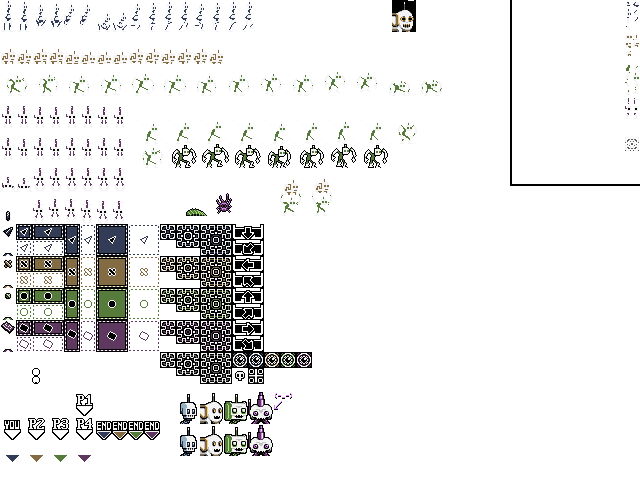
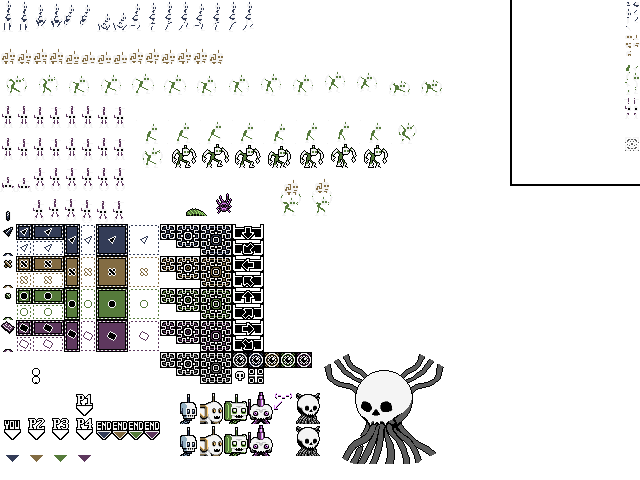
added art for 'overseer' character

diff --git a/src/game/spriteref.py b/src/game/spriteref.py
@@ -336,6 +336,7 @@ class _ObjectSheet(spritesheets.SpriteSheet):
         self.speaker_portraits[const.PLAYER_HEAVY] = [_img(176 + 24 * 2, 392 + i * 32, 24, 32, offs=start_pos) for i in range(0, 2)]
         player_d_portrait_width = 25  # needed another pixel, sue me~
         self.speaker_portraits[const.PLAYER_FLYING] = [_img(176 + 24 * 3, 392 + i * 32, player_d_portrait_width, 32, offs=start_pos) for i in range(0, 2)]
+        self.speaker_portraits["overseer"] = [_img(296, 392 + i * 32, 24, 32, offs=start_pos) for i in range(0, 2)]
 
         temp = self._handle_rotated_player_pieces([624, 128, 8, 8], 2, 8, atlas, start_pos)
         self.thin_block_broken_pieces_horz = temp[0]
@@ -635,13 +636,13 @@ class _DecorationSheet(spritesheets.SpriteSheet):
     def __init__(self):
         spritesheets.SpriteSheet.__init__(self, "decorations", "assets/decorations.png")
 
-        self.sprites = {}  # (w, h) -> list of ImageModels
+        self.sprites = {}  # (w, h) -> list of ImageModels, bool: can_recolor
 
     def draw_to_atlas(self, atlas, sheet, start_pos=(0, 0)):
         super().draw_to_atlas(atlas, sheet, start_pos=start_pos)
 
-        def _make_blocks(xy, dims, n=1, offs=(0, 0)):
-            return [_img(xy[0] + i * dims[0], xy[1], dims[0], dims[1], offs=offs) for i in range(0, n)]
+        def _make_blocks(xy, dims, n=1, offs=(0, 0), can_recolor=True):
+            return [_img(xy[0] + i * dims[0], xy[1], dims[0], dims[1], offs=offs) for i in range(0, n)], can_recolor
 
         self.sprites.clear()
         self.sprites[(16, 16)] = _make_blocks((0, 0), (16, 16), n=2, offs=start_pos)
@@ -650,12 +651,15 @@ class _DecorationSheet(spritesheets.SpriteSheet):
         self.sprites[(8, 8)] = _make_blocks((0, 32), (8, 8), n=3, offs=start_pos)
         self.sprites[(32, 32)] = _make_blocks((0, 40), (32, 32), n=2, offs=start_pos)
         self.sprites[(32, 16)] = _make_blocks((0, 72), (32, 16), n=3, offs=start_pos)
+        self.sprites[(128, 112)] = _make_blocks((0, 128), (128, 112), n=1, offs=start_pos, can_recolor=False)
 
     def get_sprite(self, size, idx):
+        """ returns: ImageModel, can_recolor """
         if size in self.sprites:
-            return self.sprites[size][idx % len(self.sprites[size])]
+            imgs, can_recolor = self.sprites[size]
+            return imgs[idx % len(self.sprites[size])], can_recolor
         else:
-            return None
+            return None, True
 
 
 class _UiSheet(spritesheets.SpriteSheet):

diff --git a/src/game/entities.py b/src/game/entities.py
@@ -3314,14 +3314,15 @@ class DecorationEntity(Entity):
     def update_sprites(self):
         if self._sprite is None:
             self._sprite = sprites.ImageSprite.new_sprite(spriteref.BLOCK_LAYER, depth=0)
-        model = spriteref.decoration_sheet().get_sprite(self.get_size(), self.art_id)
+        model, can_recolor = spriteref.decoration_sheet().get_sprite(self.get_size(), self.art_id)
         if model is None:
             model = spritesheets.get_white_square_img(opacity=0.75)
             self._sprite = self._sprite.update(new_model=model, new_x=self.get_x(), new_y=self.get_y(),
                                                new_raw_size=self.get_size(), new_color=self.get_color())
         else:
             self._sprite = self._sprite.update(new_model=model, new_x=self.get_x(), new_y=self.get_y(),
-                                               new_color=self.get_color(), new_xflip=self.xflip)
+                                               new_color=self.get_color() if can_recolor else colors.PERFECT_WHITE,
+                                               new_xflip=self.xflip)
 
     def all_sprites(self):
         yield self._sprite

diff --git a/src/game/dialog.py b/src/game/dialog.py
@@ -48,6 +48,7 @@ class Speaker:
     B = SpeakerType(const.PLAYER_SMALL, color=colors.TAN, sound=playertypes.PlayerTypes.SMALL.translate_sound(soundref.PLAYER_DIALOG))
     C = SpeakerType(const.PLAYER_HEAVY, color=colors.GREEN, sound=playertypes.PlayerTypes.HEAVY.translate_sound(soundref.PLAYER_DIALOG))
     D = SpeakerType(const.PLAYER_FLYING, color=colors.PURPLE, sound=playertypes.PlayerTypes.FLYING.translate_sound(soundref.PLAYER_DIALOG))
+    OVERSEER = SpeakerType("overseer", color=colors.WHITE, sound=soundref.ModernUI.sci_fi_notification_2)
 
     NONE = SpeakerType("none")
     UNKNOWN = SpeakerType("unknown")
